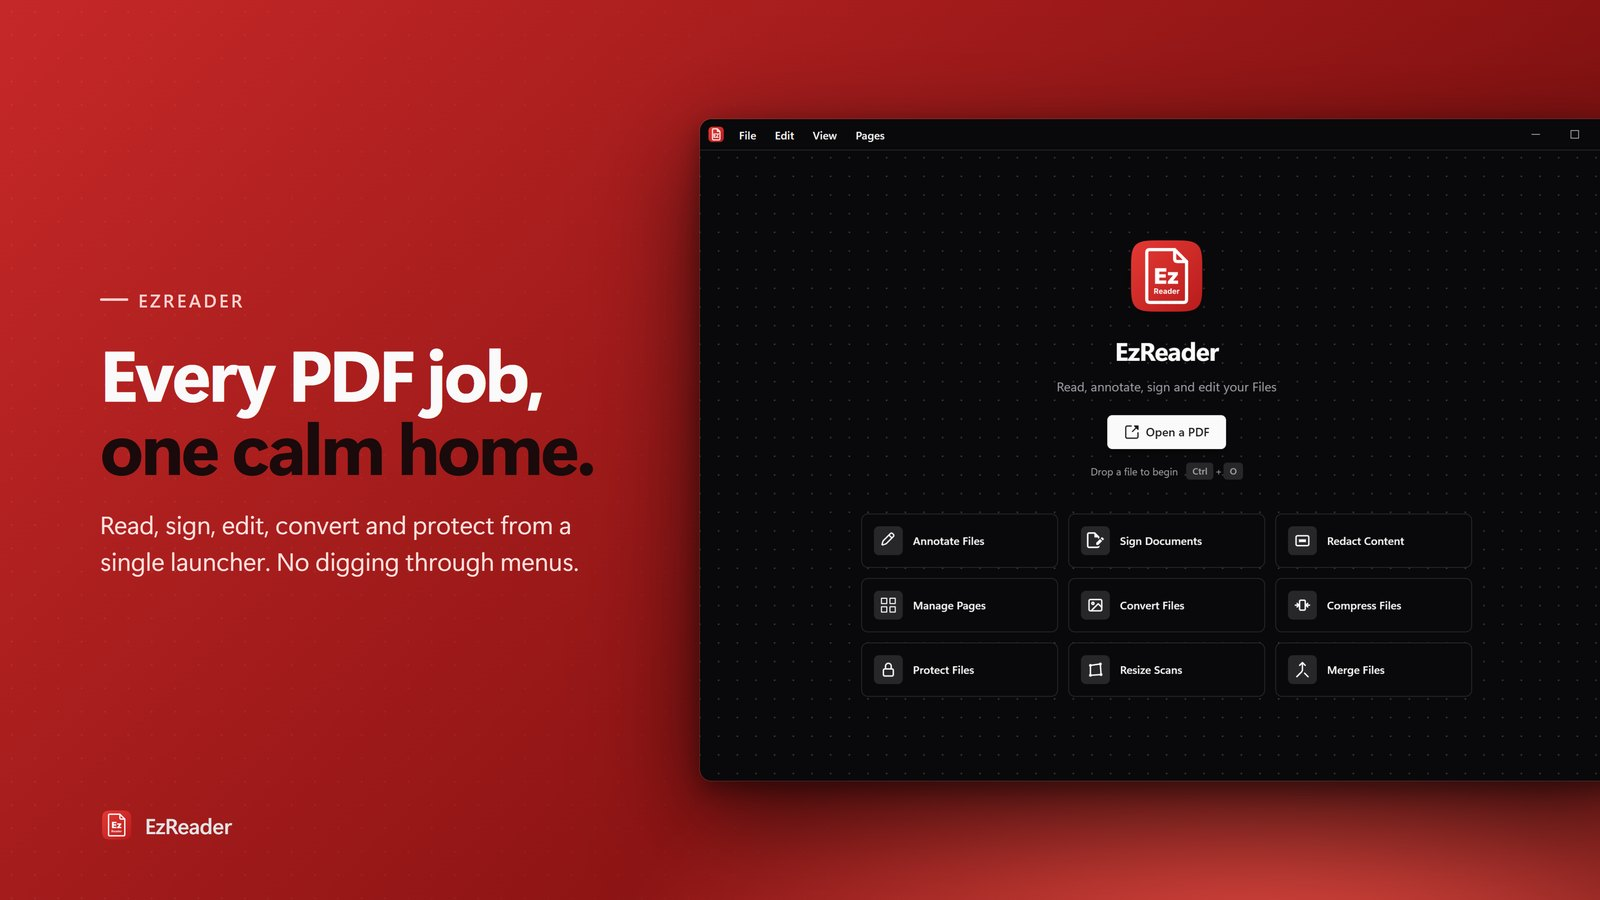
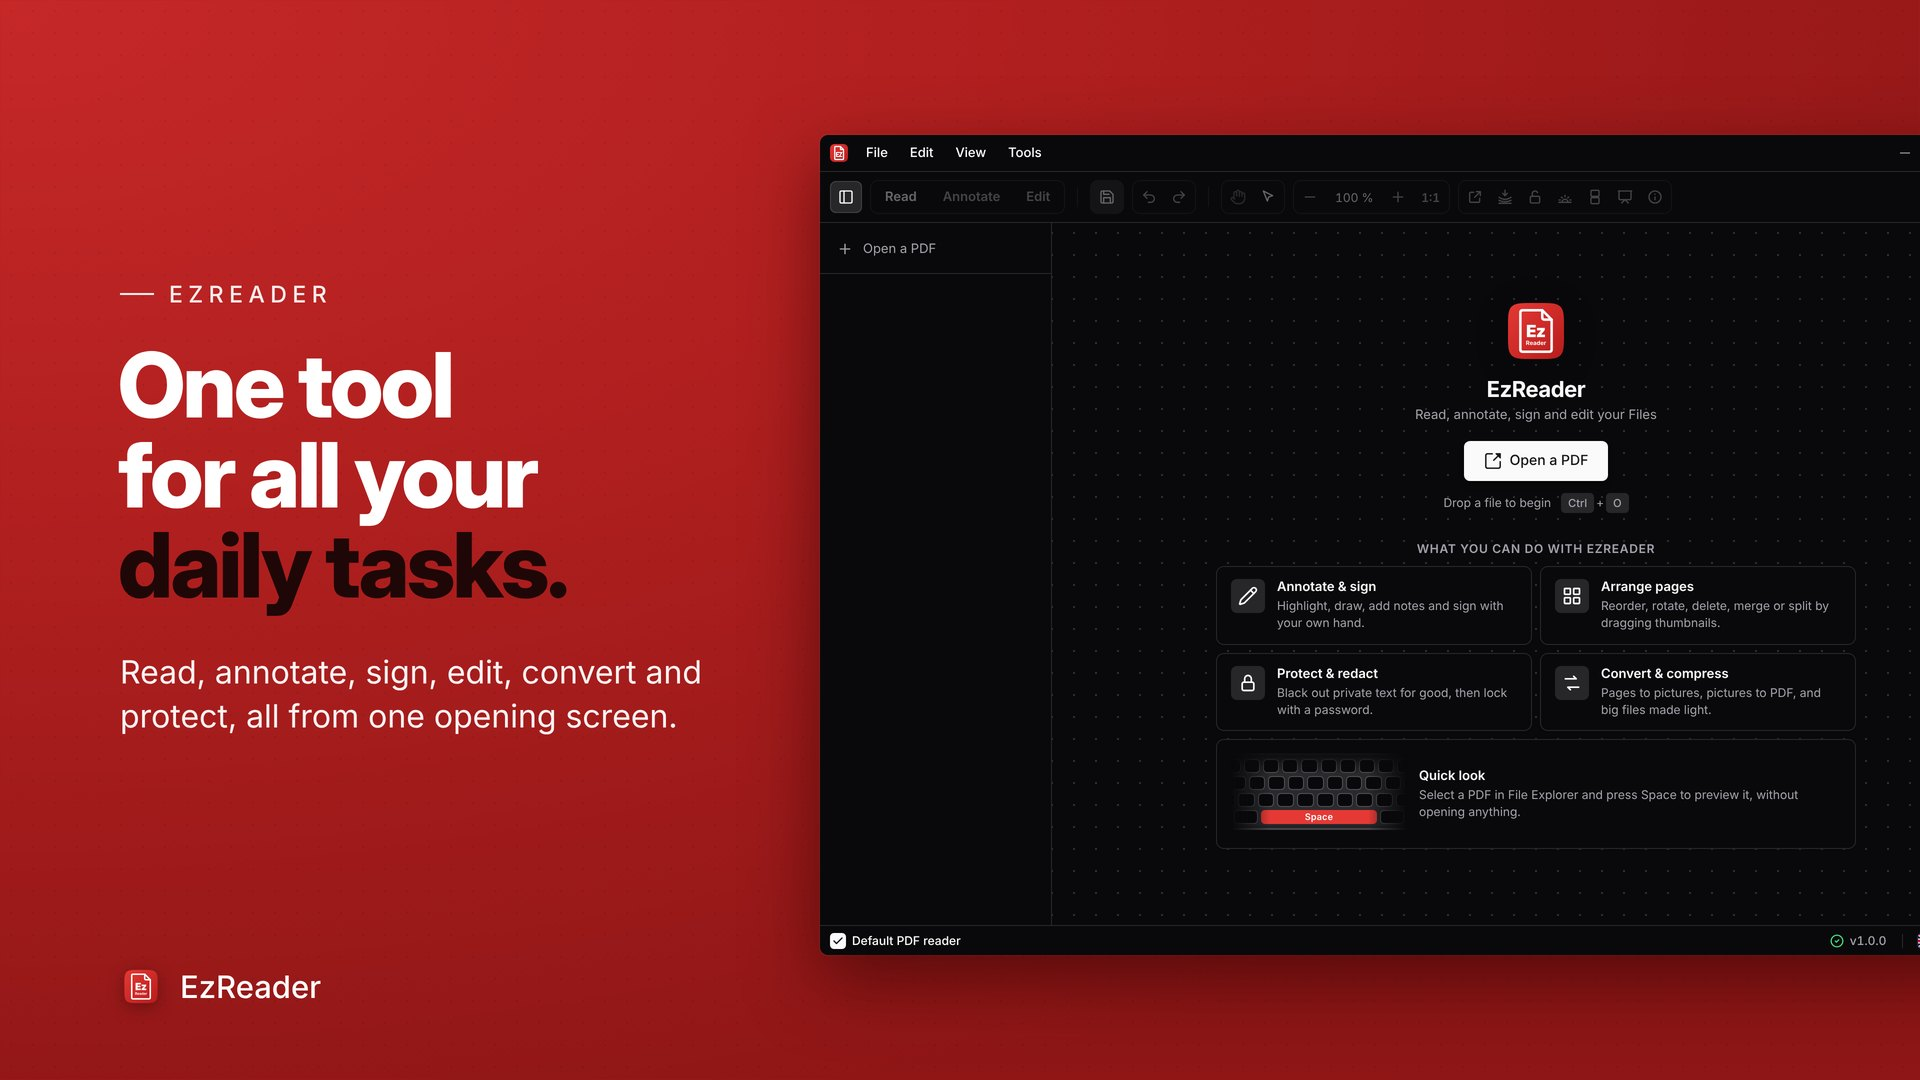
Update the README picture and features for 1.6 (#245)

diff --git a/README.md b/README.md
@@ -25,7 +25,7 @@ Everything runs on your computer: no account, no subscription, no AI, no telemet
 
 <br>
 
-<img src=".github/readme/launcher.jpg" alt="EzReader home screen: one shortcut per task (annotate, sign, redact, manage pages, convert, compress, protect, resize scans, merge)" width="860">
+<img src=".github/readme/launcher.jpg" alt="EzReader: one tool for all your daily tasks. The home screen with Annotate &amp; sign, Arrange pages, Protect &amp; redact, Convert &amp; compress, and Quick look" width="860">
 
 </div>
 
@@ -110,12 +110,14 @@ gh attestation verify <downloaded file> --repo alxbdn/EzReader
 
 ## Features
 
-EzReader opens on a home screen with a shortcut to each task: annotate, sign, redact, manage pages, convert, compress, protect, straighten scans and merge. Once a file is open, it has three modes, picked from the toolbar: **Read**, **Annotate** and **Edit**. The pages side panel and the File, Edit, View and Pages menus are available in all of them.
+EzReader opens on a home screen that sums up what it does: annotate and sign, arrange pages, protect and redact, convert and compress, and preview PDFs with Quick look. Once a file is open, it has three modes, picked from the toolbar: **Read**, **Annotate** and **Edit**. The side panel (open files and page thumbnails) and the File, Edit, View and Tools menus are available in all of them.
+
+A right click offers what fits where you click: on a file in the side panel (rename, close, close the others), on page thumbnails (rotate, insert a blank page, save as a new PDF, delete), on a page (copy the selected text, hand or select tool, zoom, print) or on the zoom level (fits, actual size, common levels).
 
 ### Read
 
 - Sharp rendering at any zoom, powered by PDF.js
-- Zoom in and out (Ctrl+wheel zooms around the mouse), fit to width or height, actual size (1:1, calibrated to your screen), or type any percentage
+- Zoom with the small up and down arrows beside the zoom level, or Ctrl+wheel around the mouse. Click the level to type any percentage; right-click it for fit to width or height, actual size and common levels. Actual size (1:1, calibrated to your screen) also has its own button while the window is wide enough
 - **Page brightness**: dim glaring white pages from the toolbar, 1 % at a time down to 40 %. Only the screen changes, never the file
 - Full screen (F11)
 - One, two or three pages per row, with vertical or horizontal scrolling
@@ -123,7 +125,7 @@ EzReader opens on a home screen with a shortcut to each task: annotate, sign, re
 - Search the whole document (Ctrl+F) and jump between matches
 - Fill in interactive forms: text fields, checkboxes and radio buttons
 - Document info: page size, PDF version, author, producer, dates and keywords
-- Rename the open file by clicking its name in the toolbar
+- Open several PDFs at once: they are listed at the top of the side panel. Double-click the current one (or press F2) to rename it
 - Open files by dropping them onto the window
 - **Books and comics**: read DRM-free `.epub` books, `.cbz` comics (one page at a time, a click turns the page), `.txt` and `.html` files chapter by chapter, with their table of contents, adjustable text size and the light or dark theme. Your place in each book is remembered. Save a book as PDF (Windows and Linux): A5 pages, with its table of contents as bookmarks
 
@@ -144,7 +146,7 @@ EzReader opens on a home screen with a shortcut to each task: annotate, sign, re
 - **Edit text**: click existing text in the PDF to replace it
 - **Images**: browse for a picture or drop one on a page to place it
 - **Redact** selected text or an area. Redactions are permanent once saved: the content under the black boxes is removed, not just hidden
-- **Stamps**: check marks and crosses
+- **Stamps**: hand-drawn check marks and crosses, in the color of your choice
 - **Crop** pages, with handles and automatic content margins
 - **Straighten** scanned pages by placing each corner with a magnifying loupe. A preview shows the straightened page as you go
 - Flip pages vertically or horizontally
